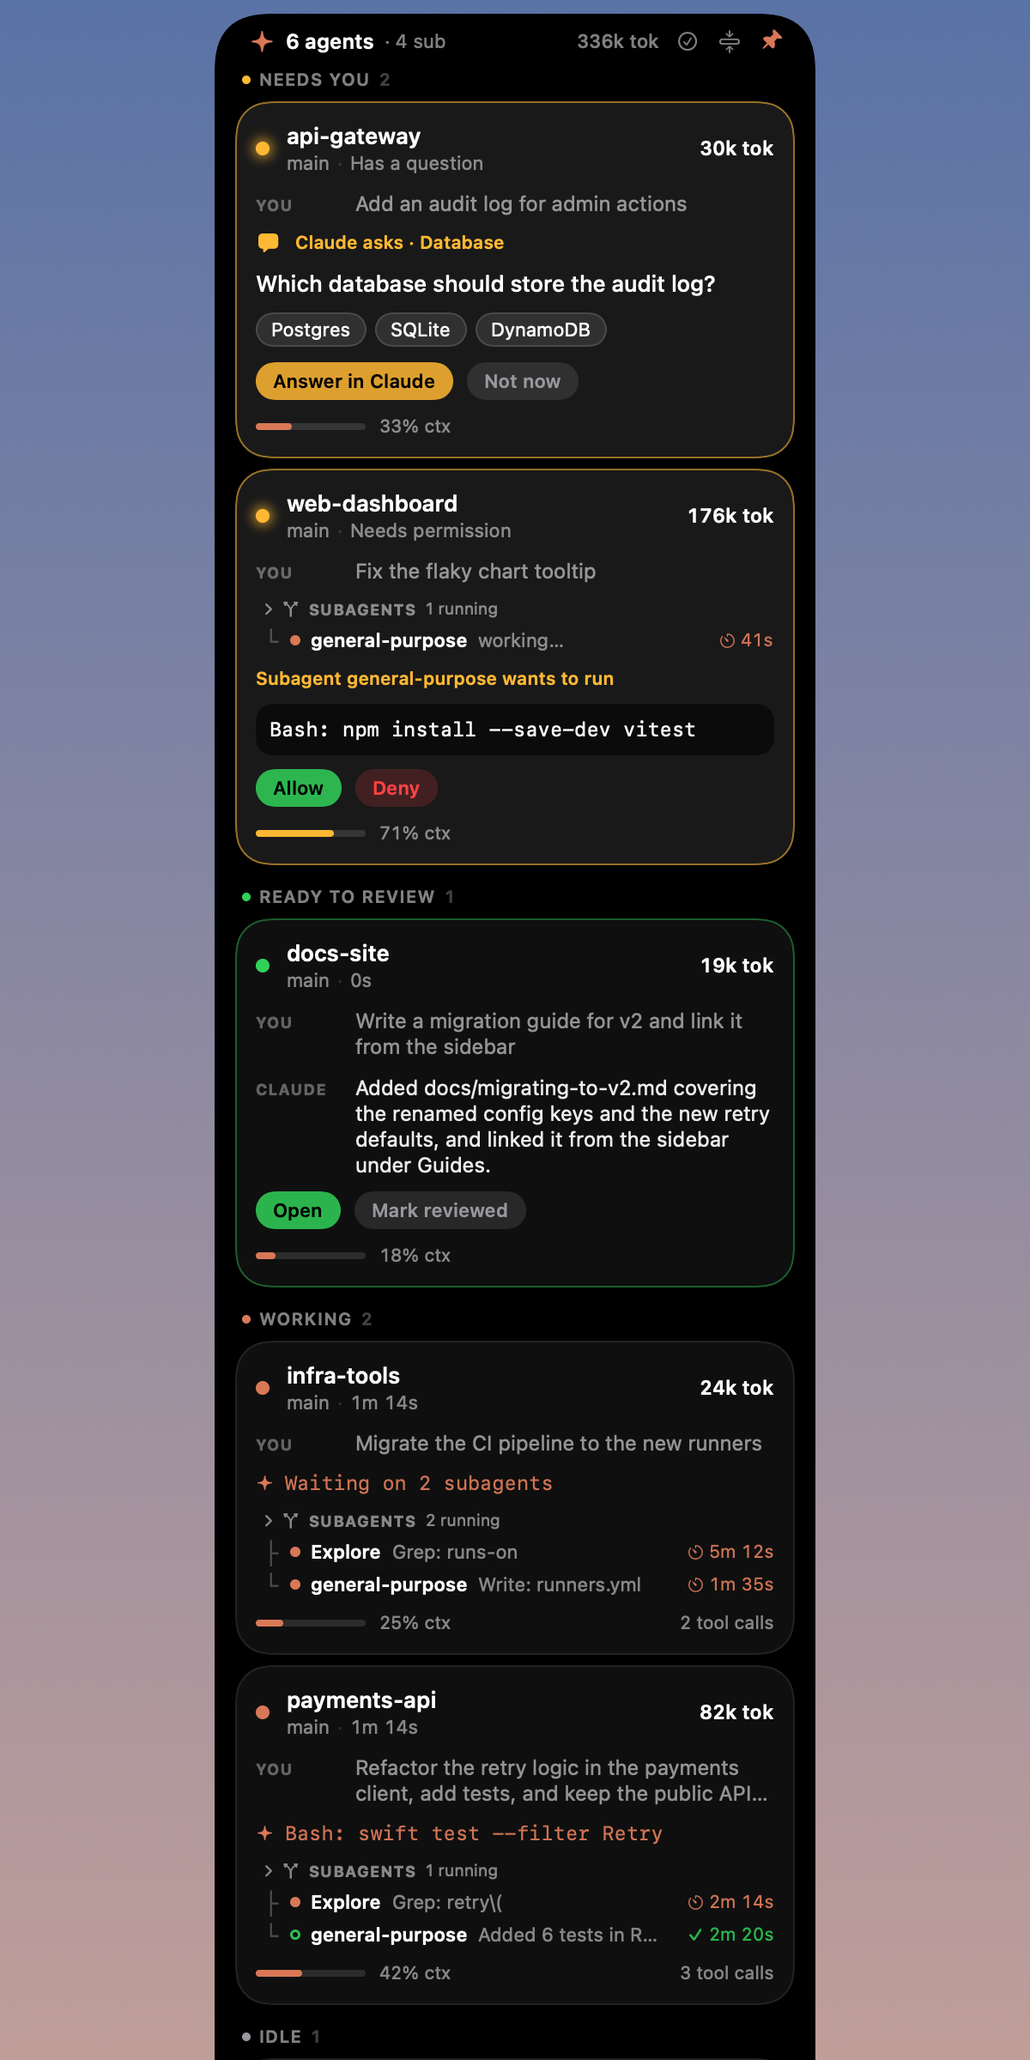
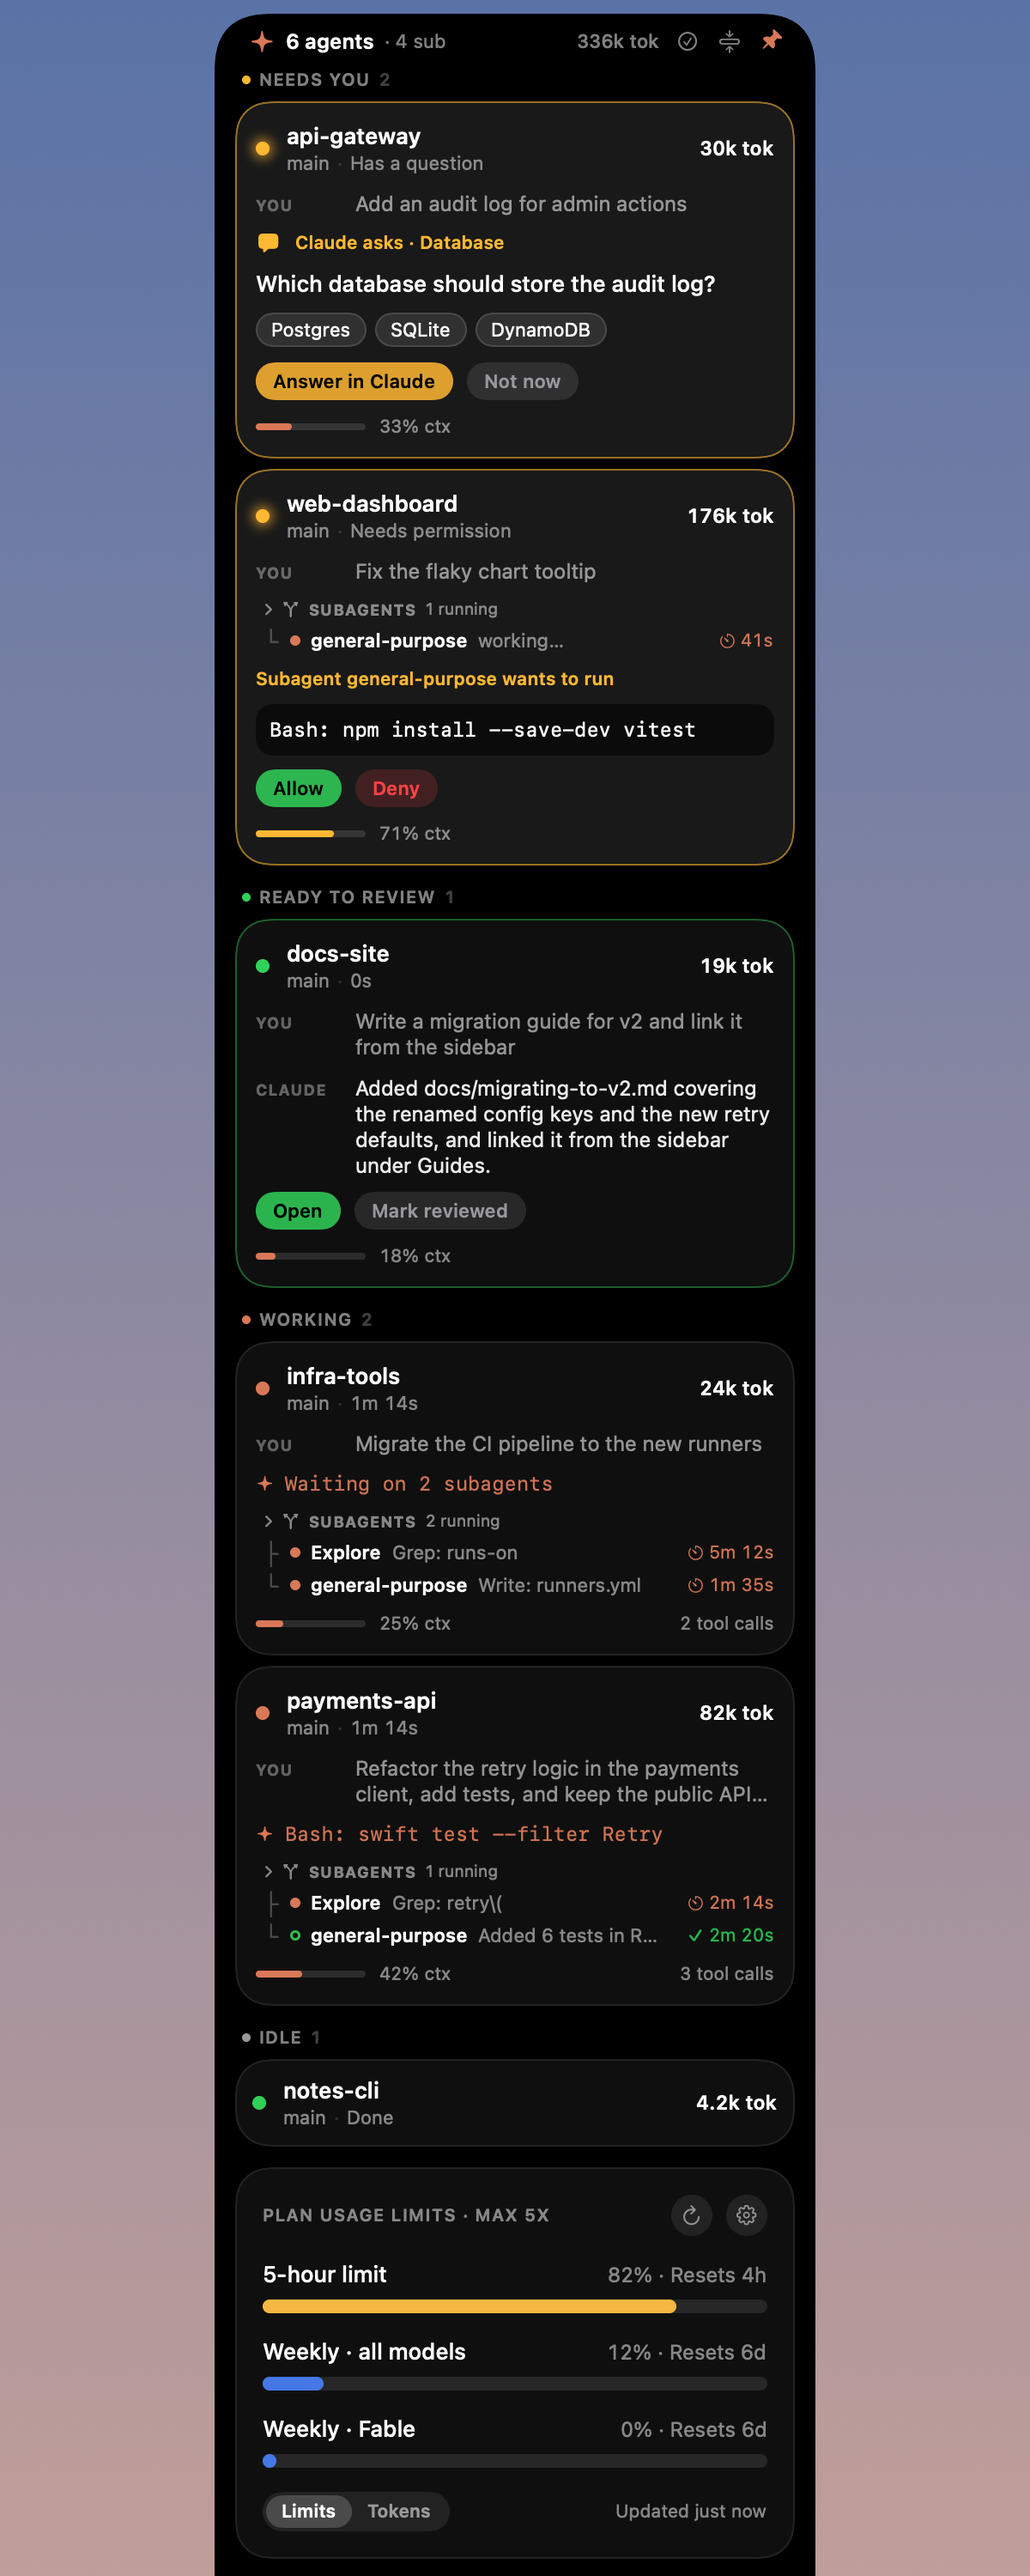
Detect outdated hooks and offer a one-click update; tidy the usage card
- HookInstaller.missingEvents notices an install made by an older version (e.g. one without SubagentStart,
  which made subagents show up late). The footer and Settings offer 'Update hooks'.
- Usage card: Refresh and Usage settings are round icon buttons beside the title; the Limits | Tokens toggle and the
  'Updated … ago' caption share one compact row.

Changed region(s): [[0.2158, 0.0, 0.7708, 1.0], [0.555, 0.5938, 0.6167, 0.625]]

diff --git a/Sources/ClaudeNotch/Views.swift b/Sources/ClaudeNotch/Views.swift
@@ -412,6 +412,22 @@ func quotaColor(_ fraction: Double) -> Color {
     fraction >= 0.90 ? Color(red: 0.86, green: 0.27, blue: 0.27) : fraction >= 0.75 ? Color(red: 0.96, green: 0.72, blue: 0.26) : quotaBlue
 }
 
+/// A small round icon button (refresh, settings, ...), quieter than a text row.
+struct IconButton: View {
+    let symbol: String
+    let help: String
+    let action: () -> Void
+    var body: some View {
+        Button(action: action) {
+            Image(systemName: symbol).font(.system(size: 11, weight: .medium)).foregroundStyle(.secondary)
+                .frame(width: 24, height: 24)
+                .background(Color.white.opacity(0.08), in: Circle())
+                .contentShape(Circle())
+        }
+        .buttonStyle(.plain).help(help)
+    }
+}
+
 struct UsageCard: View {
     @Bindable var model: AppModel
 
@@ -420,29 +436,26 @@ struct UsageCard: View {
 
     var body: some View {
         VStack(alignment: .leading, spacing: 14) {
-            HStack {
+            HStack(spacing: 8) {
                 Text("PLAN USAGE LIMITS" + (model.planName.map { " · \($0.uppercased())" } ?? ""))
                     .font(.system(size: 10, weight: .semibold)).tracking(0.6).foregroundStyle(.secondary)
-                Spacer()
-                UsageModeToggle(model: model)
+                    .lineLimit(1).minimumScaleFactor(0.8)
+                Spacer(minLength: 4)
+                IconButton(symbol: "arrow.clockwise", help: "Refresh usage") { model.refreshUsageNow() }
+                IconButton(symbol: "gearshape", help: "Usage settings") { model.openUsageSettings() }
             }
 
             if showingPercent { limits } else { tokens }
 
-            Divider().overlay(Color.white.opacity(0.08))
-
             HStack {
-                Button("Refresh") { model.refreshUsageNow() }.buttonStyle(.plain).font(.system(size: 13))
-                Spacer()
+                UsageModeToggle(model: model)
+                Spacer(minLength: 6)
                 if let u = updated {
                     TimelineView(.periodic(from: .now, by: 15)) { c in
-                        Text("Updated \(Fmt.ago(u, now: c.date))").font(.system(size: 11, weight: .semibold))
-                            .padding(.horizontal, 9).padding(.vertical, 3)
-                            .background(Color.white.opacity(0.10), in: Capsule())
+                        Text("Updated \(Fmt.ago(u, now: c.date))").font(.system(size: 10.5)).foregroundStyle(.secondary)
                     }
                 }
             }
-            Button("Usage settings…") { model.openUsageSettings() }.buttonStyle(.plain).font(.system(size: 13))
         }
         .padding(Metrics.inset + 4)
         .frame(maxWidth: .infinity, alignment: .leading)
@@ -864,7 +877,10 @@ struct FooterView: View {
     @Bindable var model: AppModel
     var body: some View {
         HStack(spacing: 10) {
-            if model.hooksInstalled {
+            if model.hooksInstalled && model.hooksOutdated {
+                // Installed by an older version: missing events (e.g. SubagentStart) mean subagents are noticed late.
+                ChipButton(title: "Update hooks", tint: amber, filled: true) { model.installHooks() }
+            } else if model.hooksInstalled {
                 Label("Hooks active", systemImage: "checkmark.seal.fill").font(.system(size: 10.5)).foregroundStyle(.green.opacity(0.9))
             } else {
                 ChipButton(title: "Install hooks", tint: coral, filled: true) { model.installHooks() }

diff --git a/Sources/ClaudeNotch/AppModel.swift b/Sources/ClaudeNotch/AppModel.swift
@@ -34,6 +34,12 @@ final class AppModel {
     var autoExpandUntil = Date.distantPast
     private(set) var expanded = false
     var hooksInstalled = HookInstaller.isInstalled()
+    /// Hooks were installed by an older version and miss events this version relies on (for example SubagentStart).
+    var hooksOutdated = false
+    func refreshHookStatus() {
+        hooksInstalled = HookInstaller.isInstalled()
+        hooksOutdated = !HookInstaller.missingEvents(interactivePermissions: prefs.approveFromIsland).isEmpty
+    }
     let settings: AppSettings
     var prefs: Preferences { settings.prefs }
     var panelWidth: CGFloat { CGFloat(prefs.panelWidth.points) }
@@ -106,6 +112,7 @@ final class AppModel {
         }
         if demo { runDemo(); return }
         refreshInstalledForwarder()
+        refreshHookStatus()
         let srv = NotchServer { [weak self] env, reply in
             Task { @MainActor in self?.ingest(env, reply: reply) }
         }
@@ -330,7 +337,10 @@ final class AppModel {
     func installHooks() {
         do {
             _ = try HookInstaller.install(hookPath: try stableHookPath(), interactivePermissions: prefs.approveFromIsland)
-            hooksInstalled = true; lastError = nil
+            hooksInstalled = true
+            refreshHookStatus()
+            lastError = nil
+            refreshHookStatus()
         } catch { lastError = error.localizedDescription }
     }
 
@@ -351,7 +361,10 @@ final class AppModel {
     }
 
     func uninstallHooks() {
-        do { _ = try HookInstaller.uninstall(); hooksInstalled = false; lastError = nil } catch { lastError = error.localizedDescription }
+        do {
+            _ = try HookInstaller.uninstall(); hooksInstalled = false
+            hooksOutdated = false; lastError = nil
+        } catch { lastError = error.localizedDescription }
     }
 
     // MARK: debug log (helps verify real payload shapes across Claude Code versions)

diff --git a/Tests/ClaudeNotchCoreTests/InstallerSafetyTests.swift b/Tests/ClaudeNotchCoreTests/InstallerSafetyTests.swift
@@ -126,4 +126,22 @@ import Testing
                 == .skippedExisting(command: "(custom status line)"))
         #expect(try bytes(f) == before)
     }
+
+    @Test func detectsAnInstallThatPredatesNewerEvents() throws {
+        let d = try dir(); let f = d.appendingPathComponent("settings.json")
+        #expect(HookInstaller.missingEvents(interactivePermissions: true, settings: f).isEmpty)  // nothing installed: nothing to update
+        // An older install: ours on only a few events (no SubagentStart), alongside someone else's hook.
+        let ours = #"{"type":"command","command":"\"/x/claude-notch-hook\""}"#
+        try
+            (#"{"hooks":{"Stop":[{"hooks":["# + ours + #"]}],"SubagentStop":[{"hooks":["# + ours
+            + #"]}],"SubagentStart":[{"hooks":[{"type":"command","command":"/usr/bin/other"}]}]}}"#)
+            .write(to: f, atomically: true, encoding: .utf8)
+        let missing = HookInstaller.missingEvents(interactivePermissions: false, settings: f)
+        // someone else's hook doesn't count as ours
+        #expect(missing.contains("SubagentStart") && missing.contains("PreToolUse") && !missing.contains("Stop"))
+        #expect(!missing.contains("PermissionRequest"))  // observe-only: not expected
+        #expect(HookInstaller.missingEvents(interactivePermissions: true, settings: f).contains("PermissionRequest"))
+        _ = try HookInstaller.install(hookPath: "/x/claude-notch-hook", interactivePermissions: true, settings: f)
+        #expect(HookInstaller.missingEvents(interactivePermissions: true, settings: f).isEmpty)  // a fresh install is complete
+    }
 }

diff --git a/Sources/ClaudeNotchCore/Installer.swift b/Sources/ClaudeNotchCore/Installer.swift
@@ -193,6 +193,22 @@ public enum HookInstaller {
         }
     }
 
+    /// Events a complete install registers but which our hook is missing from. Empty when hooks are not installed at
+    /// all (nothing to update). Lets the app notice an install made by an older version (for example one that
+    /// predates `SubagentStart`, without which subagents are only noticed at their first tool call).
+    public static func missingEvents(interactivePermissions: Bool, settings: URL = Paths.claudeSettings) -> [String] {
+        guard isInstalled(settings: settings), let file = try? SettingsFile(settings),
+            let hooks = file.root["hooks"] as? [String: Any]
+        else { return [] }
+        let expected = observedEvents + (interactivePermissions ? [permissionEvent] : [])
+        return expected.filter { event in
+            let groups = hooks[event] as? [[String: Any]] ?? []
+            return !groups.contains { g in
+                (g["hooks"] as? [[String: Any]])?.contains { isOurs($0["command"] as? String) } == true
+            }
+        }
+    }
+
     // MARK: status line (quota gauges). Single-slot setting, so we only claim it when it is free.
 
     public enum StatusLineResult: Equatable { case installed, alreadyInstalled, skippedExisting(command: String) }

diff --git a/Sources/ClaudeNotch/Settings.swift b/Sources/ClaudeNotch/Settings.swift
@@ -229,6 +229,13 @@ struct IntegrationTab: View {
                     Button(model.hooksInstalled ? "Reinstall" : "Install hooks") { model.installHooks() }
                     if model.hooksInstalled { Button("Uninstall", role: .destructive) { model.uninstallHooks() } }
                 }
+                if model.hooksOutdated {
+                    Label(
+                        "An update is available: your hooks predate SubagentStart, so subagents are noticed late.",
+                        systemImage: "arrow.triangle.2.circlepath"
+                    )
+                    .font(.callout).foregroundStyle(.orange)
+                }
                 Toggle("Approve permissions from the island", isOn: $settings.prefs.approveFromIsland)
             } header: {
                 Text("Claude Code hooks")

diff --git a/Sources/ClaudeNotch/main.swift b/Sources/ClaudeNotch/main.swift
@@ -82,12 +82,12 @@ func renderSnapshots(to dir: String) {
     model.settings.prefs.expandedMode = .compact
     shot("expanded-compact", height: 520)
     model.settings.prefs.expandedMode = .detailed
-    shot("expanded-needs-you", height: 1200)
+    shot("expanded-needs-you", height: 1500)
     // Resolve the request and let the subagent finish so the "review / working / idle" mix is visible.
     model.store.resolvePermission("web-dashboard", allowed: true)
     model.expandedSubagents.insert("infra-tools")  // show the explorable subagent tree
     model.store.markSeen("web-dashboard")
-    shot("expanded-mixed", height: 1200)
+    shot("expanded-mixed", height: 1500)
     model.pinned = false
     model.store.markSeen("docs-site")
     shot("collapsed", height: 120)

diff --git a/README.md b/README.md
@@ -121,6 +121,7 @@ Open from the island's **⋯ ▸ Settings…**, the menu-bar icon, or ⌘, while
 | Symptom | Try |
 |---|---|
 | Nothing appears | Is the app running (menu-bar sparkle)? Are hooks installed (*Settings ▸ Integration*)? Restart Claude sessions started before installing. |
+| Subagents show up late, or the footer says **Update hooks** | Your hooks were installed by an older version and miss events (such as `SubagentStart`). Click **Update hooks** (or *Settings ▸ Integration ▸ Reinstall*). |
 | Island flickers or won't open | Increase *Hover delay*, or turn off *Expand on hover* and click to open. |
 | No quota percentages | Enable quota gauges, then run `claude` in a **terminal** and send one message; the report is remembered afterwards. Limits only exist for Pro/Max, and the desktop app's Code tab doesn't send them. If you already use a custom status line, Claude Notch leaves it alone. |
 | Dollars shown/hidden unexpectedly | *Settings ▸ Content ▸ Dollar cost*. |
